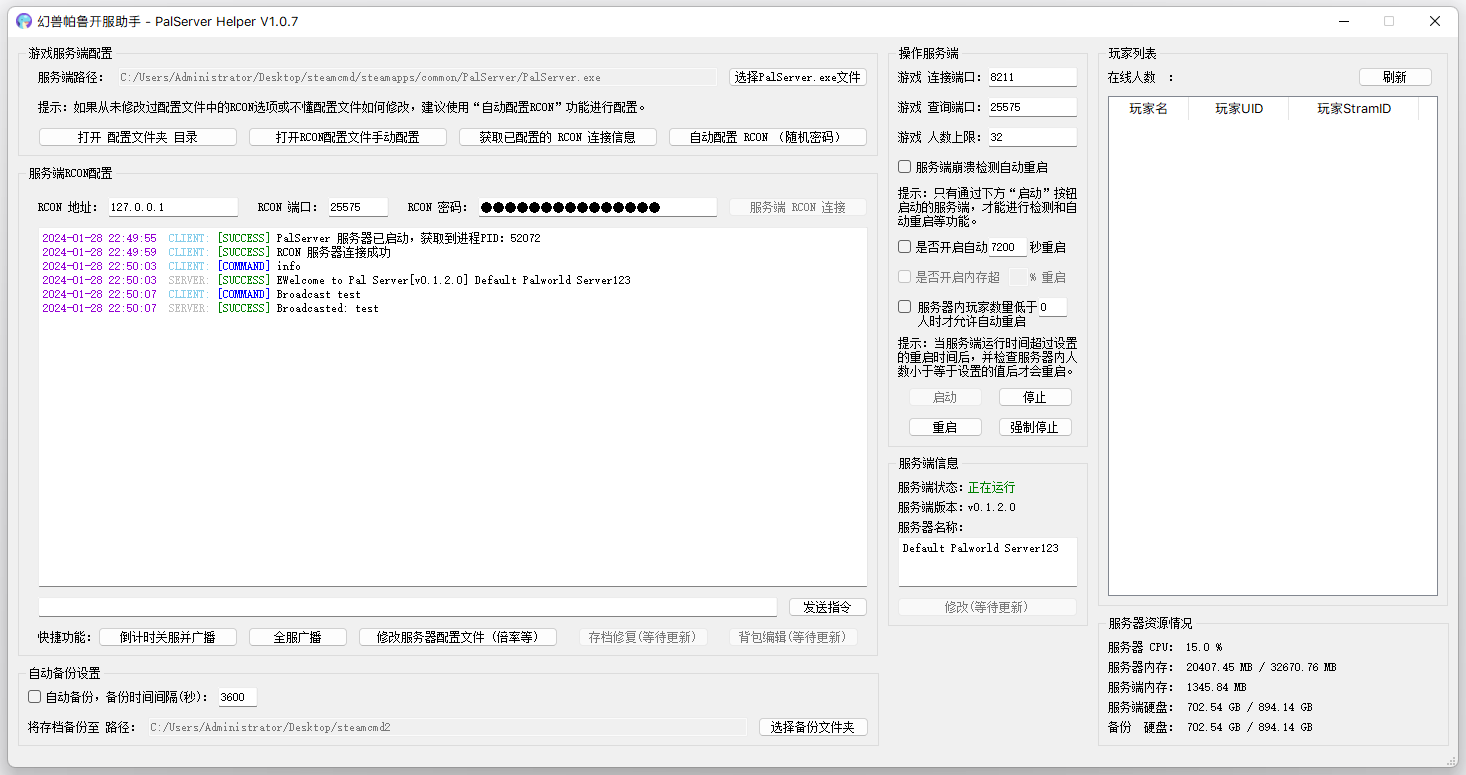
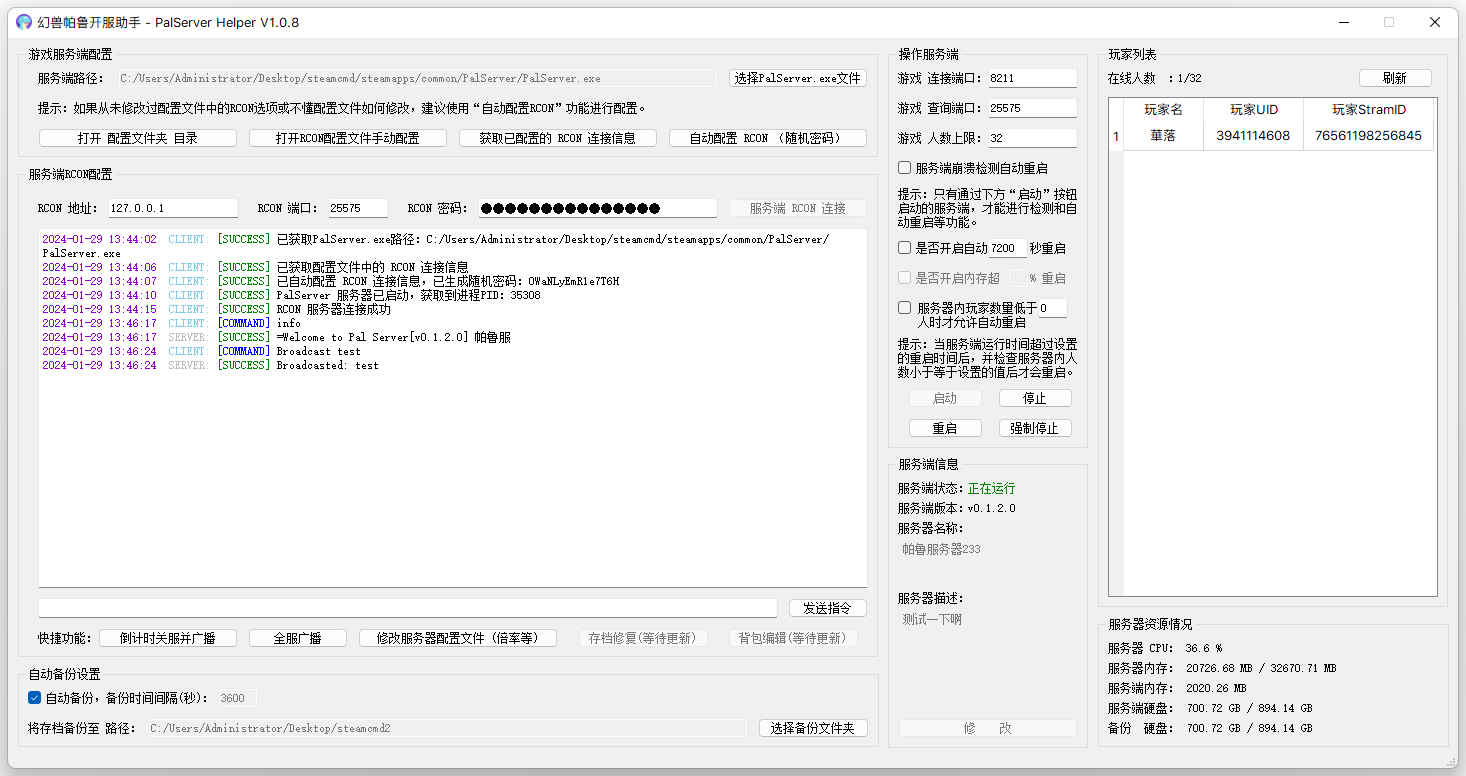
V1.0.8 更新服务器标题、服务器描述修改功能；修复配置文件中文支持

diff --git a/activity/main_activity.py b/activity/main_activity.py
@@ -30,8 +30,10 @@ class Window(QMainWindow):
         self.server_run_time = datetime.now()
         self.last_auto_backup_time = datetime.now()
         self.player_list = []
+        self.palserver_settings_path = None
+        self.config_parser = configparser.ConfigParser()
+        self.option_settings_dict = {}
         self.initUi()
-        self.world_settings_window = world_settings_activity.Window()
 
     def initUi(self):
         loadUi(os.path.join(self.module_path, r"../ui/main.ui"), self)
@@ -45,18 +47,7 @@ class Window(QMainWindow):
         self.table_widget_player_list.setColumnWidth(1, 100)
         self.table_widget_player_list.setColumnWidth(2, 130)
 
-        if "palserver_path" in self.config:
-            if os.path.isfile(self.config["palserver_path"]):
-                self.line_edit_palserver_path.setText(self.config["palserver_path"])
-                self.button_open_settings_dir.setEnabled(True)
-                self.button_open_rcon_settings_file.setEnabled(True)
-                self.button_get_rcon_config.setEnabled(True)
-                self.button_automatic_rcon.setEnabled(True)
-            else:
-                self.line_edit_palserver_path.setText("")
-                self.config.pop("palserver_path")
-                self.save_config_json()
-                self.text_browser_rcon_server_notice("client_error", "检测到 PalServer.exe 文件不存在，请重新选择！")
+        self.check_palserver_path()
 
         if "game_port" in self.config:
             self.line_edit_game_port.setText(str(self.config["game_port"]))
@@ -71,11 +62,6 @@ class Window(QMainWindow):
             self.line_edit_rcon_port.setText(str(self.config["rcon_port"]))
         if "rcon_password" in self.config:
             self.line_edit_rcon_password.setText(self.config["rcon_password"])
-        if "backup_dir_path" in self.config:
-            if os.path.isdir(self.config["backup_dir_path"]):
-                self.line_edit_backup_path.setText(self.config["backup_dir_path"])
-                self.check_box_auto_backup.setEnabled(True)
-                self.line_edit_auto_backup_time_limit.setEnabled(True)
 
         if "crash_detection_flag" in self.config:
             self.check_box_crash_detection.setChecked(self.config["crash_detection_flag"])
@@ -97,11 +83,14 @@ class Window(QMainWindow):
         if "auto_backup_time_limit" in self.config:
             self.line_edit_auto_backup_time_limit.setText(str(self.config["auto_backup_time_limit"]))
         if "backup_dir_path" in self.config:
-            self.line_edit_backup_path.setText(self.config["backup_dir_path"])
-            if "auto_backup_flag" in self.config:
-                self.check_box_auto_backup.setChecked(self.config["auto_backup_flag"])
-                if self.config["auto_backup_flag"]:
-                    self.check_box_auto_backup_click(True)
+            if os.path.isdir(self.config["backup_dir_path"]):
+                self.line_edit_backup_path.setText(self.config["backup_dir_path"])
+                self.check_box_auto_backup.setEnabled(True)
+                self.line_edit_auto_backup_time_limit.setEnabled(True)
+                if "auto_backup_flag" in self.config:
+                    self.check_box_auto_backup.setChecked(self.config["auto_backup_flag"])
+                    if self.config["auto_backup_flag"]:
+                        self.check_box_auto_backup_click(True)
 
         self.timed_detection_timer_1000 = QTimer(self)
         self.timed_detection_timer_1000.timeout.connect(self.timed_detection_1000)
@@ -133,6 +122,10 @@ class Window(QMainWindow):
         self.button_game_stop.setEnabled(self.server_run_flag)
         self.button_game_restart.setEnabled(self.server_run_flag)
         self.button_game_kill.setEnabled(self.server_run_flag)
+        self.text_edit_server_name.setEnabled(not self.server_run_flag)
+        self.text_edit_server_description.setEnabled(not self.server_run_flag)
+        self.text_edit_server_description.setEnabled(not self.server_run_flag)
+        self.button_edit_server_name.setEnabled(not self.server_run_flag)
 
         if self.rcon_connect_flag:
             flag, message = self.pal_rcon.check_connect()
@@ -241,44 +234,51 @@ class Window(QMainWindow):
     def save_config_json(self):
         json_operation.save_json(self.config_path, self.config)
 
-    def check_settings_file(self):
-        palserver_settings_path = os.path.join(self.config["palserver_path"], r"../Pal/Saved/Config/WindowsServer/PalWorldSettings.ini")
-        if os.path.isfile(palserver_settings_path):
-            self.line_edit_palserver_path.setText(self.config["palserver_path"])
-            self.button_open_settings_dir.setEnabled(True)
-            self.button_open_rcon_settings_file.setEnabled(True)
-            self.button_get_rcon_config.setEnabled(True)
-            self.button_automatic_rcon.setEnabled(True)
+    def check_palserver_path(self):
+        if "palserver_path" in self.config:
+            if os.path.isfile(self.config["palserver_path"]):
+                self.palserver_settings_path = os.path.abspath(os.path.join(self.config["palserver_path"], r"../Pal/Saved/Config/WindowsServer/PalWorldSettings.ini"))
+                if os.path.isfile(self.palserver_settings_path):
+                    self.line_edit_palserver_path.setText(self.config["palserver_path"])
+                    self.button_open_settings_dir.setEnabled(True)
+                    self.button_open_rcon_settings_file.setEnabled(True)
+                    self.button_get_rcon_config.setEnabled(True)
+                    self.button_automatic_rcon.setEnabled(True)
+                    self.config_parser.read(self.palserver_settings_path, encoding="utf-8")
+                    option_settings = self.config_parser['/Script/Pal.PalGameWorldSettings']['OptionSettings']
+                    self.option_settings_dict = dict(item.strip().split('=') for item in option_settings.split(','))
+                    self.text_edit_server_name.setText(self.option_settings_dict["ServerName"].replace("\"", ""))
+                    self.text_edit_server_description.setText(self.option_settings_dict["ServerDescription"].replace("\"", ""))
+                    return True
+                else:
+                    self.line_edit_palserver_path.setText("")
+                    self.config.pop("palserver_path")
+                    self.save_config_json()
+                    self.text_browser_rcon_server_notice("client_error", "服务端路径下的 /Pal/Saved/Config/WindowsServer/PalWorldSettings.ini 配置文件不存在，请检查服务端！")
+                    return False
+            else:
+                self.line_edit_palserver_path.setText("")
+                self.config.pop("palserver_path")
+                self.save_config_json()
+                self.text_browser_rcon_server_notice("client_error", "检测到 PalServer.exe 文件不存在，请重新选择！")
+                return False
         else:
-            self.line_edit_palserver_path.setText("")
-            self.button_open_settings_dir.setEnabled(False)
-            self.button_open_rcon_settings_file.setEnabled(False)
-            self.button_get_rcon_config.setEnabled(False)
-            self.button_automatic_rcon.setEnabled(False)
-            self.config.pop("palserver_path")
-            self.text_browser_rcon_server_notice("client_error", "服务端路径下的 /Pal/Saved/Config/WindowsServer/PalWorldSettings.ini 配置文件不存在，请检查服务端！")
-        self.save_config_json()
-        return os.path.isfile(palserver_settings_path)
+            return False
 
     def button_select_file_click(self):
         qfile_dialog = QFileDialog.getOpenFileName(self, "选择文件", "/", "PalServer (PalServer.exe)")
         self.config["palserver_path"] = qfile_dialog[0]
-        self.check_settings_file()
+        self.text_browser_rcon_server_notice("client_success", "已获取PalServer.exe路径：" + qfile_dialog[0])
+        self.check_palserver_path()
 
     def button_open_settings_dir_click(self):
-        if self.check_settings_file():
-            palserver_settings_path = os.path.join(self.config["palserver_path"], r"../Pal/Saved/Config/WindowsServer/PalWorldSettings.ini")
-        else:
-            return
-        os.system("explorer /select,\"" + str(os.path.abspath(palserver_settings_path)) + "\"")
+        os.system("explorer /select,\"" + str(os.path.abspath(self.palserver_settings_path)) + "\"")
+        self.text_browser_rcon_server_notice("client_success", "已打开 配置文件夹 目录，请修改RCON相关字段")
 
     def button_open_rcon_settings_file_click(self):
-        if self.check_settings_file():
-            palserver_settings_path = os.path.join(self.config["palserver_path"], r"../Pal/Saved/Config/WindowsServer/PalWorldSettings.ini")
-        else:
-            return
         try:
-            subprocess.run(["notepad.exe", palserver_settings_path], check=True)
+            subprocess.run(["notepad.exe", self.palserver_settings_path], check=True)
+            self.text_browser_rcon_server_notice("client_success", "已通过记事本打开 配置文件，请修改RCON相关字段")
         except subprocess.CalledProcessError as e:
             self.text_browser_rcon_server_notice("client_error", "无法打开 RCON 配置文件！")
             return
@@ -288,42 +288,28 @@ class Window(QMainWindow):
             return
 
     def button_get_rcon_config_click(self):
-        if self.check_settings_file():
-            palserver_settings_path = os.path.join(self.config["palserver_path"], r"../Pal/Saved/Config/WindowsServer/PalWorldSettings.ini")
-        else:
-            return
-        config = configparser.ConfigParser()
-        config.read(palserver_settings_path)
-        option_settings = config['/Script/Pal.PalGameWorldSettings']['OptionSettings']
-        option_settings_dict = dict(item.strip().split('=') for item in option_settings.split(','))
-        if option_settings_dict['RCONEnabled'] is False:
+        if self.option_settings_dict['RCONEnabled'] is False:
             self.text_browser_rcon_server_notice("client_error", "配置文件中 RCONEnabled 未启用，请修改为 True！")
             QMessageBox.critical(self, "错误", "配置文件中 RCONEnabled 未启用，请修改为 True！")
+            return
         self.config["rcon_addr"] = "127.0.0.1"
-        self.config["rcon_port"] = int(option_settings_dict["RCONPort"])
-        self.config["rcon_password"] = option_settings_dict["AdminPassword"].replace("\"", "")
+        self.config["rcon_port"] = int(self.option_settings_dict["RCONPort"])
+        self.config["rcon_password"] = self.option_settings_dict["AdminPassword"].replace("\"", "")
         self.save_config_json()
         self.line_edit_rcon_addr.setText("127.0.0.1")
-        self.line_edit_rcon_port.setText(str(option_settings_dict["RCONPort"]))
-        self.line_edit_rcon_password.setText(option_settings_dict["AdminPassword"].replace("\"", ""))
+        self.line_edit_rcon_port.setText(str(self.option_settings_dict["RCONPort"]))
+        self.line_edit_rcon_password.setText(self.option_settings_dict["AdminPassword"].replace("\"", ""))
+        self.text_browser_rcon_server_notice("client_success", "已获取配置文件中的 RCON 连接信息")
 
     def button_automatic_rcon_click(self):
-        if self.check_settings_file():
-            palserver_settings_path = os.path.join(self.config["palserver_path"], r"../Pal/Saved/Config/WindowsServer/PalWorldSettings.ini")
-        else:
-            return
-        config = configparser.ConfigParser()
-        config.read(palserver_settings_path)
-        option_settings = config['/Script/Pal.PalGameWorldSettings']['OptionSettings']
-        option_settings_dict = dict(item.strip().split('=') for item in option_settings.split(','))
-        option_settings_dict['RCONEnabled'] = True
-        option_settings_dict['RCONPort'] = 25575
+        self.option_settings_dict['RCONEnabled'] = True
+        self.option_settings_dict['RCONPort'] = 25575
         admin_password = random_password.random_string()
-        option_settings_dict['AdminPassword'] = "\"" + admin_password + "\""
-        new_option_settings = ','.join(f"{key}={value}" for key, value in option_settings_dict.items())
-        config['/Script/Pal.PalGameWorldSettings']['OptionSettings'] = new_option_settings
-        with open(palserver_settings_path, 'w') as config_file:
-            config.write(config_file)
+        self.option_settings_dict['AdminPassword'] = "\"" + admin_password + "\""
+        new_option_settings = ','.join(f"{key}={value}" for key, value in self.option_settings_dict.items())
+        self.config_parser['/Script/Pal.PalGameWorldSettings']['OptionSettings'] = new_option_settings
+        with open(self.palserver_settings_path, 'w', encoding='utf-8') as config_file:
+            self.config_parser.write(config_file)
         self.config["rcon_addr"] = "127.0.0.1"
         self.config["rcon_port"] = 25575
         self.config["rcon_password"] = admin_password
@@ -331,6 +317,7 @@ class Window(QMainWindow):
         self.line_edit_rcon_addr.setText(self.config["rcon_addr"])
         self.line_edit_rcon_port.setText(str(self.config["rcon_port"]))
         self.line_edit_rcon_password.setText(self.config["rcon_password"])
+        self.text_browser_rcon_server_notice("client_success", "已自动配置 RCON 连接信息，已生成随机密码：" + admin_password)
 
     def line_edit_rcon_textchange(self):
         rcon_addr = self.line_edit_rcon_addr.text()
@@ -374,8 +361,6 @@ class Window(QMainWindow):
         rcon_result = self.pal_rcon.command("info")
         server_version = rcon_result[rcon_result.index("[")+1:rcon_result.index("]")]
         self.label_server_version.setText(server_version)
-        server_name = rcon_result[rcon_result.index("]")+2:]
-        self.text_edit_server_name.setText(server_name)
 
     def button_game_start_click(self):
         if "palserver_path" not in self.config:
@@ -474,7 +459,7 @@ class Window(QMainWindow):
             return
         self.text_browser_rcon_server_notice("client_command", command.replace("\n", ""))
         rcon_result = self.pal_rcon.command(command)
-        self.text_browser_rcon_server_notice("server_success", rcon_result[:-1])
+        self.text_browser_rcon_server_notice("server_success", rcon_result)
         self.line_edit_command.setText("")
 
     def show_player_list_menu(self, position):
@@ -628,7 +613,7 @@ class Window(QMainWindow):
             command = "KickPlayer " + player_uid
             self.text_browser_rcon_server_notice("client_command", command)
             rcon_result = self.pal_rcon.command(command)
-            self.text_browser_rcon_server_notice("server_success", rcon_result[:-1])
+            self.text_browser_rcon_server_notice("server_success", rcon_result)
         self.get_server_info()
 
     def ban_player(self):
@@ -639,7 +624,7 @@ class Window(QMainWindow):
             command = "BanPlayer " + player_uid
             self.text_browser_rcon_server_notice("client_command", command)
             rcon_result = self.pal_rcon.command(command)
-            self.text_browser_rcon_server_notice("server_success", rcon_result[:-1])
+            self.text_browser_rcon_server_notice("server_success", rcon_result)
         self.get_server_info()
 
     def copy_uid(self):
@@ -657,4 +642,14 @@ class Window(QMainWindow):
             pyperclip.copy(player_steamid)
 
     def button_edit_settings_click(self):
+        self.world_settings_window = world_settings_activity.Window()
         self.world_settings_window.show()
+
+    def button_edit_server_name_click(self):
+        self.option_settings_dict["ServerName"] = "\"" + self.text_edit_server_name.toPlainText().replace("\n", "") + "\""
+        self.option_settings_dict["ServerDescription"] = "\"" + self.text_edit_server_description.toPlainText().replace("\n", "") + "\""
+        new_option_settings = ','.join(f"{key}={value}" for key, value in self.option_settings_dict.items())
+        self.config_parser['/Script/Pal.PalGameWorldSettings']['OptionSettings'] = new_option_settings
+        with open(self.palserver_settings_path, 'w', encoding='utf-8') as config_file:
+            self.config_parser.write(config_file)
+        self.text_browser_rcon_server_notice("client_success", "服务器名称或服务器描述已修改成功，现可启动服务器查看。")

diff --git a/activity/world_settings_activity.py b/activity/world_settings_activity.py
@@ -29,7 +29,7 @@ class Window(QMainWindow):
             self.palserver_settings_path = os.path.join(self.config["palserver_path"], r"../Pal/Saved/Config/WindowsServer/PalWorldSettings.ini")
             if os.path.isfile(self.palserver_settings_path):
                 config = configparser.ConfigParser()
-                config.read(self.palserver_settings_path)
+                config.read(self.palserver_settings_path, encoding="utf-8")
                 option_settings = config['/Script/Pal.PalGameWorldSettings']['OptionSettings']
                 self.option_settings_dict = dict(item.strip().split('=') for item in option_settings.split(','))
                 self.load_settings()
@@ -189,9 +189,9 @@ class Window(QMainWindow):
 
         new_option_settings = ','.join(f"{key}={value}" for key, value in self.option_settings_dict.items())
         config = configparser.ConfigParser()
-        config.read(self.palserver_settings_path)
+        config.read(self.palserver_settings_path, encoding="utf-8")
         config['/Script/Pal.PalGameWorldSettings']['OptionSettings'] = new_option_settings
-        with open(self.palserver_settings_path, 'w') as config_file:
+        with open(self.palserver_settings_path, 'w', encoding='utf-8') as config_file:
             config.write(config_file)
 
         QMessageBox.information(self, "成功", "服务器配置文件已修改！")

diff --git a/utils/PalRcon/module.py b/utils/PalRcon/module.py
@@ -33,7 +33,7 @@ class PalRcon:
             try:
                 packet = struct.pack('<3i', 10 + len(self.password), 0, 3) + self.password.encode('utf-8') + b'\x00\x00'
                 self.socket.send(packet)
-                response = self.socket.recv(4096)
+                response = self.socket.recv(65536)
                 self.handle_response(response)
                 return True, "RCON服务器登录成功"
             except (socket.timeout, ConnectionAbortedError) as e:
@@ -59,7 +59,7 @@ class PalRcon:
         try:
             packet = struct.pack('<3i', 10 + len(cmd), 0, 2) + cmd.encode('utf-8') + b'\x00\x00'
             self.socket.send(packet)
-            response = self.socket.recv(4096)
+            response = self.socket.recv(65536)
             return self.handle_response_with_log(response)
         except (socket.timeout, ConnectionAbortedError) as e:
             print(f"Error during command execution: {e}")

diff --git a/setting.py b/setting.py
@@ -1,4 +1,4 @@
-version = "V1.0.7"
+version = "V1.0.8"
 publicity_ad = None
 announcement_show_flag = False
 announcement_url = "https://raw.gitmirror.com/hualuoo/palworld-helper/main/resource/announcement.txt"

diff --git a/README.md b/README.md
@@ -10,10 +10,10 @@
     <img src="https://img.shields.io/badge/Language-Python-blue?style=flat-square"/>
   </a>
   <a href="https://github.com/hualuoo/palworld-helper/releases">
-    <img src="https://img.shields.io/badge/Release-V1.0.7-blue?style=flat-square"/>
+    <img src="https://img.shields.io/badge/Release-V1.0.8-blue?style=flat-square"/>
   </a>
 </p>
-<h4 align="center">3小时用PyQt搓出来的小工具，交流Q群：209726238</h4>
+<h4 align="center">4小时用PyQt搓出来的小工具，交流Q群：209726238</h4>
 
 ![image](https://raw.githubusercontent.com/hualuoo/palworld_helper/main/images/img1.png)
 
@@ -32,4 +32,4 @@
 * 🌈 ... ...
 
 ## :hammer_and_wrench: BUG问题相关
-由于该工具为边打CS边搓出来的小工具，为方便自身开服使用，仅花了4小时不到，未考虑优化等因素，如遇BUG，欢迎提交issues并注明出现错误的情景方便复现。
+由于该工具为边打CS边搓出来的小工具，为方便自身开服使用，仅花了5小时不到，未考虑优化等因素，如遇BUG，欢迎提交issues并注明出现错误的情景方便复现。
